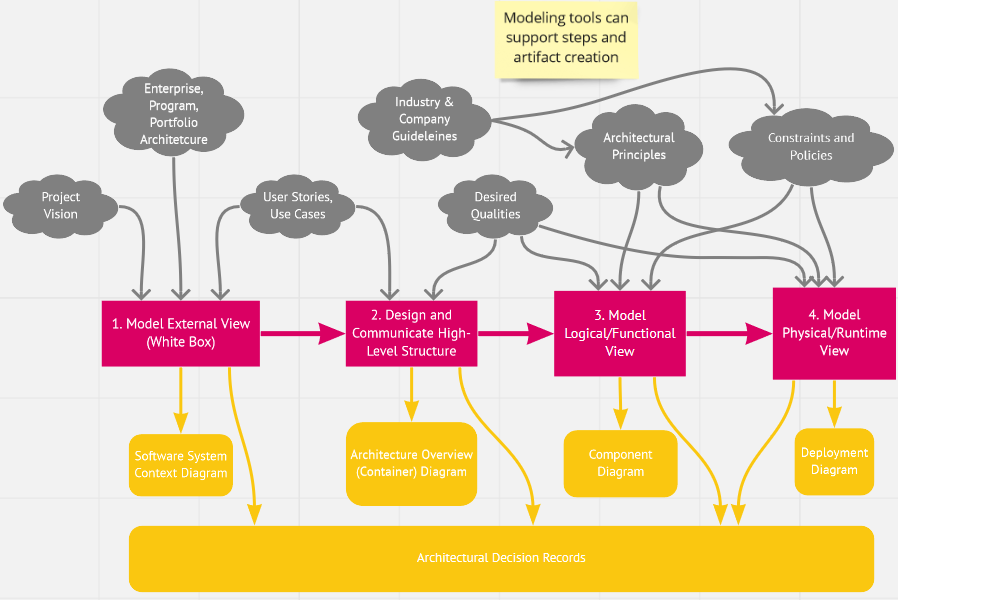
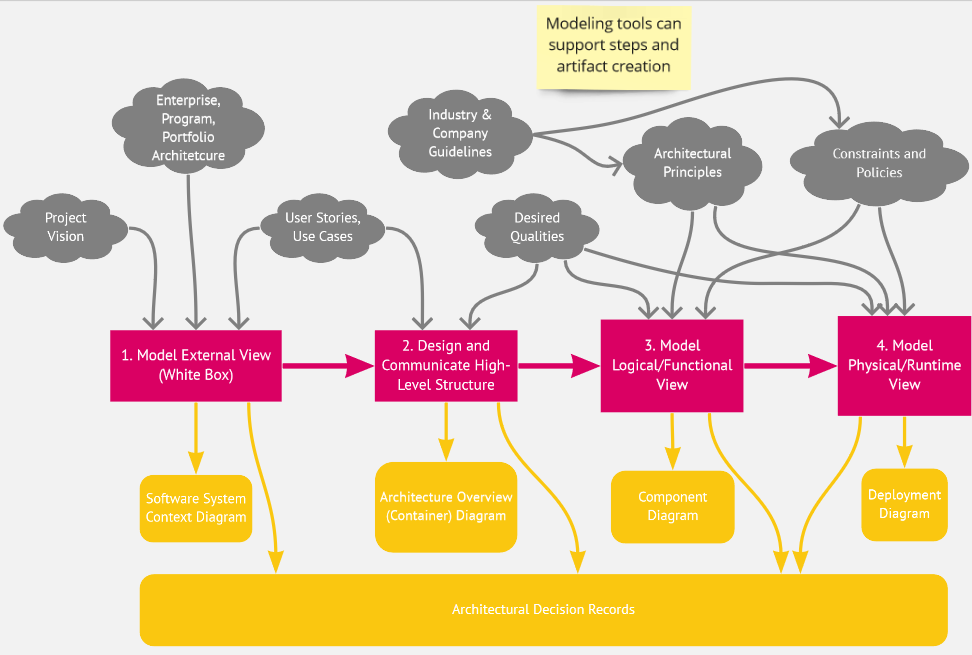
Figure updates (fixes)

diff --git a/activities/DPR-ArchitectureModeling.md b/activities/DPR-ArchitectureModeling.md
@@ -35,11 +35,9 @@ The [arc42 website](https://docs.arc42.org/section-4/) suggests a table format t
 *Derive the level of abstraction, breadth, depth and notation for any architecture model  you create from a set of stakeholder concerns and information needs caused by these concerns. Create one model/diagram per viewpoint (i.e., set of stakeholder concerns).* 
 
 For instance, four common modeling steps are: 
-<!-- Source: https://miro.com/app/board/o9J_kmvD-I0=/?fromEmbed=1 -->
+<!-- Source: https://miro.com/app/board/o9J_lN6TopI=/ -->
 
 ![](/activities/images/DPR-ArchitectureModeling.png)
-
-<!-- TODO CE: typo in miro Guidelines -->
 
 1. Create a *system context diagram* to visualize external dependencies (stakeholder: project manager; concern: scope control and risk management).
 2. Provide an *architecture overview diagram* that captures the outcome of the executive decisions made in the solution strategy (stakeholder: project sponsor, entire team; concern: joint understanding of technical approach to achieving project goals and stakeholder requirements, project/iteration planning).

diff --git a/activities/DPR-SMART-NFR-Elicitation.md b/activities/DPR-SMART-NFR-Elicitation.md
@@ -30,11 +30,9 @@ Practical challenges of NFR elicitation include:
 
 Therefore, it is desirable to establish criteria and templates that allow architects and other participants in architectural analysis to overcome these challenge so that NFR elicitation and architectural analysis become effective and efficient.
 
-<!-- Source: https://miro.com/app/board/o9J_kmuX5tA=/?fromEmbed=1 -->
+<!-- Source: https://miro.com/app/board/o9J_lN6Tr5c=/ -->
 
 ![](/activities/images/DPR-NFRElicitation.png)
-
-<!-- IH CE: capitalization not consistent in figure -->
 
 ### Instructions (Synopsis, Definition)
 *Select and apply a taxonomy consistently.* There are many different NFRs, Quality Attributes (QAs) in particular. Many of these pertain to the runtime, others deal with software support and maintenance. Therefore, many attempts have been made to organize the QA landscape (ordered from informal and ad hoc to formal and complete): 

diff --git a/activities/SDPR-StepwiseServiceDesign.md b/activities/SDPR-StepwiseServiceDesign.md
@@ -110,7 +110,7 @@ The more clients an API has and the longer it runs and the more mission-critical
 
 Let us repeat and emphasize again:
 
-* *Avoid &mdash; or spot and overcome &mdash; [analysis paralysis](https://en.wikipedia.org/wiki/Analysis_paralysis)*. Acknowledge the general rules of method engineering, including: <!-- IH CE: one or tree lines? check GitPages, LeanPub. --><!-- source: readmes for activities, artifacts, roles -->
+* *Avoid &mdash; or spot and overcome &mdash; [analysis paralysis](https://en.wikipedia.org/wiki/Analysis_paralysis)*. Acknowledge the general rules of method engineering, including: <!-- source: readmes for activities, artifacts, roles -->
 > 1. If in doubt, leave it out.
 > 2. Do not follow templates blindly, but adopt them to your needs. 
 > 3. Context matters. 
